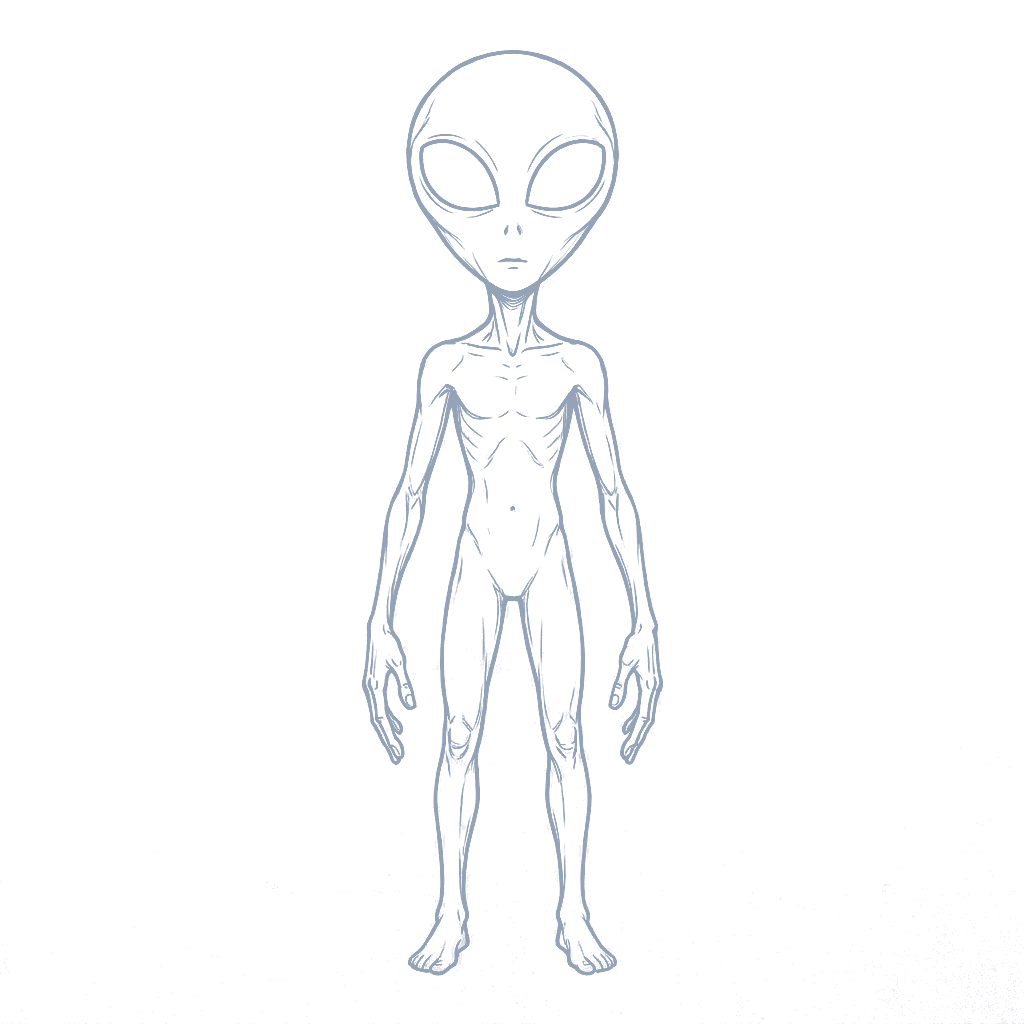
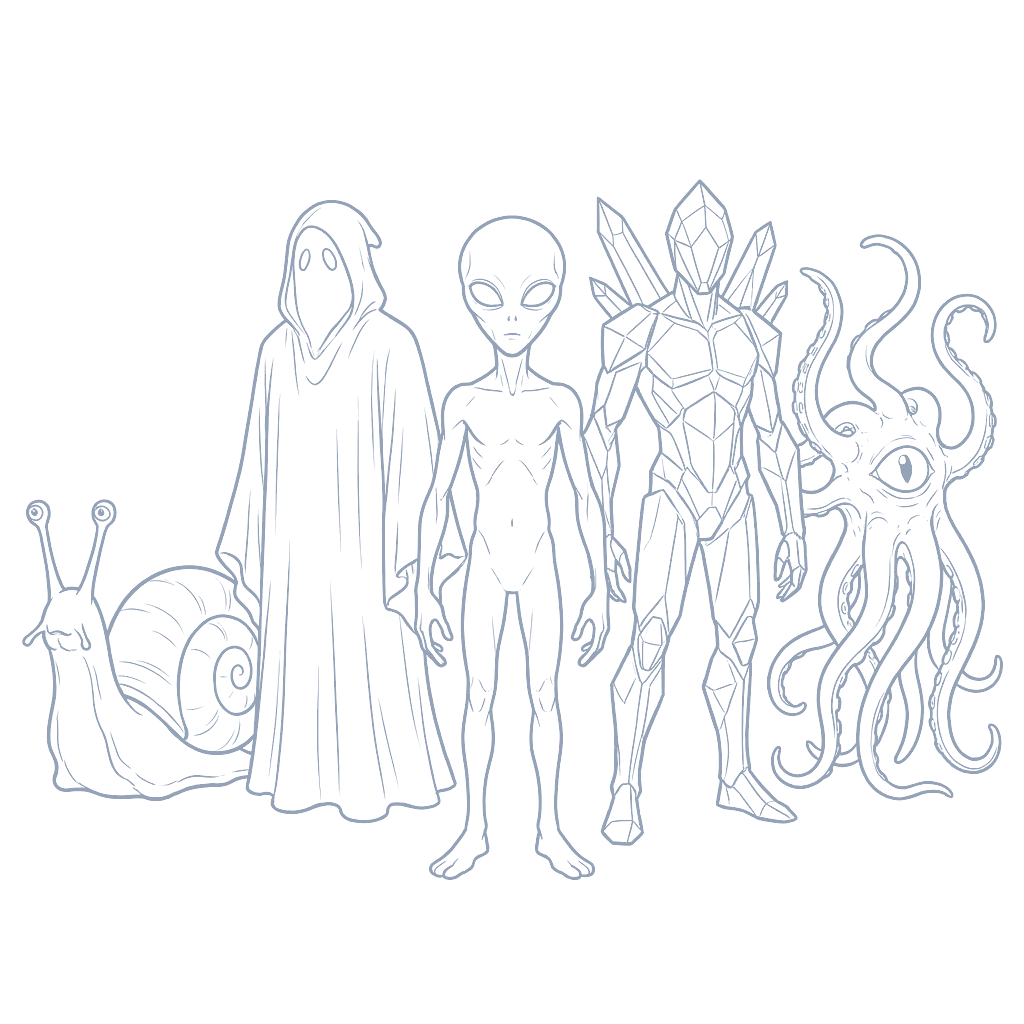
feat(species): expand alien sketch with outline lineup (#41)
* feat(species): expand alien sketch with outline lineup

Replace the single grey alien with five outline-only creatures (snail, ghost, grey, crystal, tentacle) matching the other species line-art style.

* docs: note alien sketch lineup and skip composition gate

Record the user-facing alien outline asset update and document a single-hop SKIPPED composition proof for the asset-only PR.

* feat(character-editor): polish Spezies chrome and archetype cards

Move identity fields into the preview card, rename Info→Spezies, place ruleset next to Vorschau, collapse archetype core abilities, and shorten archetype card height.

* docs(qa): refresh composition-gate notes for editor chrome polish

---------

diff --git a/src/components/CharacterEditor.tsx b/src/components/CharacterEditor.tsx
@@ -57,7 +57,7 @@ import {
 } from '../modules/rulesets/characterCreation';
 import { Badge } from './ui/badge';
 import { Button } from './ui/button';
-import { Card, CardAction, CardContent, CardHeader, CardTitle } from './ui/card';
+import { Card, CardContent, CardHeader } from './ui/card';
 import { Input } from './ui/input';
 import { Label } from './ui/label';
 import { Select, SelectContent, SelectItem, SelectTrigger, SelectValue } from './ui/select';
@@ -340,13 +340,74 @@ export function CharacterEditor() {
     <div className="h-full w-full overflow-y-auto">
       <div className="mx-auto max-w-7xl space-y-4 p-4 md:space-y-6 md:p-8">
         <div className="flex flex-col gap-3 md:flex-row md:items-center md:justify-between">
-          <div><div className="flex flex-wrap items-center gap-2"><h1 className="text-xl md:text-2xl">Charakter Editor</h1><Badge>{rulesetLabel}</Badge><Badge variant="outline">Stufe {characterLevel}</Badge></div><p className="mt-1 text-sm text-muted-foreground">Der Editor führt dich durch die Core-Regeln und berechnet regelrelevante Werte automatisch.</p></div>
-          <div className="flex gap-2"><Button variant="outline" onClick={() => trackActivity('Character Editor: Vorschau fokussiert')}><Eye className="mr-2 h-4 w-4" />Vorschau</Button><Button onClick={handleSaveCharacter} disabled={saving || uploading}><Save className="mr-2 h-4 w-4" />{saving ? 'Speichert...' : 'Speichern'}</Button></div>
+          <div><div className="flex flex-wrap items-center gap-2"><h1 className="text-xl md:text-2xl">Charakter Editor</h1><Badge>{rulesetLabel}</Badge><Badge variant="outline">Stufe {characterLevel}</Badge></div></div>
+          <div className="flex flex-wrap items-center gap-2">
+            <Select value={ruleset} onValueChange={handleRulesetChange}>
+              <SelectTrigger id="ruleset" size="sm" className="w-[10.5rem] sm:w-52" aria-label="Regelset">
+                <SelectValue />
+              </SelectTrigger>
+              <SelectContent>
+                {characterRulesetOptions.map((option) => (
+                  <SelectItem key={option.value} value={option.value}>{option.label}</SelectItem>
+                ))}
+              </SelectContent>
+            </Select>
+            <Button variant="outline" onClick={() => trackActivity('Character Editor: Vorschau fokussiert')}>
+              <Eye className="mr-2 h-4 w-4" />Vorschau
+            </Button>
+            <Button onClick={handleSaveCharacter} disabled={saving || uploading}>
+              <Save className="mr-2 h-4 w-4" />{saving ? 'Speichert...' : 'Speichern'}
+            </Button>
+          </div>
         </div>
 
         <div className="grid grid-cols-1 gap-4 md:gap-6 lg:grid-cols-3">
           <Card className="lg:sticky lg:top-4 lg:col-span-1 lg:self-start">
-            <CardHeader className="pb-3"><div className="flex items-start justify-between gap-3"><div className="min-w-0"><CardTitle className="truncate text-base md:text-lg" title={characterName || 'Unbenannt'}>{characterName || 'Unbenannt'}</CardTitle><p className="mt-1 text-xs text-muted-foreground">Stufe {characterLevel} · {rulesetLabel}</p></div><Badge variant="outline">Drive 3 / 5</Badge></div></CardHeader>
+            <CardHeader className="space-y-3 pb-3">
+              <div className="flex items-start justify-between gap-2">
+                <p className="text-xs text-muted-foreground">{rulesetLabel}</p>
+                <Badge variant="outline">Drive 3 / 5</Badge>
+              </div>
+              <div className="space-y-3">
+                <div className="space-y-1.5">
+                  <Label htmlFor="name">Name</Label>
+                  <Input
+                    id="name"
+                    placeholder="Charaktername"
+                    value={characterName}
+                    onChange={(event) => setCharacterName(event.target.value)}
+                  />
+                </div>
+                <div className="flex gap-2">
+                  <div className="min-w-0 flex-1 space-y-1.5">
+                    <Label htmlFor="gender-reading">Geschlecht</Label>
+                    <GenderReadingSelect
+                      id="gender-reading"
+                      value={genderReading}
+                      onValueChange={setGenderReading}
+                      className="w-full"
+                      invalid={validationAttempted && !genderReadingComplete}
+                    />
+                  </div>
+                  <div className="w-[4.5rem] shrink-0 space-y-1.5 sm:w-20">
+                    <Label htmlFor="level">Stufe</Label>
+                    <Select value={String(characterLevel)} onValueChange={(value) => setCharacterLevel(Number.parseInt(value, 10))}>
+                      <SelectTrigger id="level" className="w-full"><SelectValue /></SelectTrigger>
+                      <SelectContent>
+                        {Array.from({ length: 20 }, (_, index) => index + 1).map((level) => (
+                          <SelectItem key={level} value={String(level)}>{level}</SelectItem>
+                        ))}
+                      </SelectContent>
+                    </Select>
+                  </div>
+                </div>
+                {validationAttempted && !genderReadingComplete && (
+                  <p className="text-xs text-destructive">
+                    Bitte wähle eine Lesart: männlich, weiblich oder divers.
+                  </p>
+                )}
+              </div>
+            </CardHeader>
             <CardContent className="space-y-4">
               <div className="aspect-[4/5] overflow-hidden rounded-lg border border-border bg-[#0B1220] shadow-inner"><AvatarCanvas avatar={currentAvatar} canvasRef={avatarCanvasRef} /></div>
               <p className="text-sm text-muted-foreground">{previewSubtitle || 'Wähle Archetyp und Essenz'}</p>
@@ -366,28 +427,10 @@ export function CharacterEditor() {
           </Card>
 
           <Card className="lg:col-span-2">
-            <CardHeader className="pb-3">
-              <CardTitle className="text-base md:text-lg">Charakter erstellen</CardTitle>
-              <CardAction>
-                <div className="space-y-1.5">
-                  <Label htmlFor="ruleset" className="text-xs text-muted-foreground">Regelset</Label>
-                  <Select value={ruleset} onValueChange={handleRulesetChange}>
-                    <SelectTrigger id="ruleset" className="w-[10.5rem] sm:w-52" aria-label="Regelset">
-                      <SelectValue />
-                    </SelectTrigger>
-                    <SelectContent>
-                      {characterRulesetOptions.map((option) => (
-                        <SelectItem key={option.value} value={option.value}>{option.label}</SelectItem>
-                      ))}
-                    </SelectContent>
-                  </Select>
-                </div>
-              </CardAction>
-            </CardHeader>
-            <CardContent>
+            <CardContent className="pt-6">
               <Tabs value={activeTab} onValueChange={handleTabChange}>
                 <TabsList className="grid h-auto w-full grid-cols-2 gap-1 sm:grid-cols-3 xl:grid-cols-6">
-                  <TabsTrigger value="info" className="px-1 py-2 text-xs md:px-2 md:text-sm">Info</TabsTrigger>
+                  <TabsTrigger value="info" className="px-1 py-2 text-xs md:px-2 md:text-sm">Spezies</TabsTrigger>
                   <TabsTrigger value="background" className="px-1 py-2 text-xs md:px-2 md:text-sm">Hintergrund</TabsTrigger>
                   <TabsTrigger value="values" className="px-1 py-2 text-xs md:px-2 md:text-sm">Parameter</TabsTrigger>
                   <TabsTrigger value="appearance" className="px-1 py-2 text-xs md:px-2 md:text-sm">Look</TabsTrigger>
@@ -396,34 +439,6 @@ export function CharacterEditor() {
                 </TabsList>
 
                 <TabsContent value="info" className="space-y-6">
-                  <div className="flex gap-3 sm:gap-4">
-                    <div className="min-w-0 flex-1 space-y-2">
-                      <Label htmlFor="name">Name</Label>
-                      <Input id="name" placeholder="Charaktername" value={characterName} onChange={(event) => setCharacterName(event.target.value)} />
-                    </div>
-                    <div className="w-[7.25rem] shrink-0 space-y-2 sm:w-36">
-                      <Label htmlFor="gender-reading">Geschlecht</Label>
-                      <GenderReadingSelect
-                        id="gender-reading"
-                        value={genderReading}
-                        onValueChange={setGenderReading}
-                        className="w-full"
-                        invalid={validationAttempted && !genderReadingComplete}
-                      />
-                    </div>
-                    <div className="w-[4.5rem] shrink-0 space-y-2 sm:w-20">
-                      <Label htmlFor="level">Stufe</Label>
-                      <Select value={String(characterLevel)} onValueChange={(value) => setCharacterLevel(Number.parseInt(value, 10))}>
-                        <SelectTrigger id="level" className="w-full"><SelectValue /></SelectTrigger>
-                        <SelectContent>{Array.from({ length: 20 }, (_, index) => index + 1).map((level) => <SelectItem key={level} value={String(level)}>{level}</SelectItem>)}</SelectContent>
-                      </Select>
-                    </div>
-                  </div>
-                  {validationAttempted && !genderReadingComplete && (
-                    <div className="rounded-lg border border-destructive/40 bg-destructive/5 px-4 py-3 text-sm text-destructive">
-                      Bitte wähle eine Lesart: männlich gelesen, weiblich gelesen oder divers.
-                    </div>
-                  )}
                   <div className="space-y-2">
                     <Label id="species-label">Spezies</Label>
                     <SpeciesCarousel selectedRace={characterRace} onSelect={applyRacePreset} labelledBy="species-label" />
@@ -505,7 +520,7 @@ export function CharacterEditor() {
                 </TabsContent>
 
                 <TabsContent value="appearance" className="space-y-6">
-                  <div className="rounded-lg border border-primary/30 bg-primary/5 p-4"><div className="flex items-start justify-between gap-3"><div><p className="font-medium">Look ist kosmetisch</p><p className="mt-1 text-sm text-muted-foreground">Körperbau, Gesicht, Haare und Kleidung verändern keine Charakterwerte. Spezies wählst du im Info-Tab, Talente unter Parameter → Talente.</p></div><Badge variant="outline">Keine Werte</Badge></div></div>
+                  <div className="rounded-lg border border-primary/30 bg-primary/5 p-4"><div className="flex items-start justify-between gap-3"><div><p className="font-medium">Look ist kosmetisch</p><p className="mt-1 text-sm text-muted-foreground">Körperbau, Gesicht, Haare und Kleidung verändern keine Charakterwerte. Spezies wählst du im Spezies-Tab, Talente unter Parameter → Talente.</p></div><Badge variant="outline">Keine Werte</Badge></div></div>
                   <div className="grid grid-cols-1 gap-6 md:grid-cols-2"><div className="space-y-2"><Label>Körperbau</Label><Slider aria-label="Körperbau" value={bodySize} onValueChange={setBodySize} min={0} max={100} step={1} /><div className="flex items-center justify-between text-xs text-muted-foreground"><span>Schmal</span><span>{bodySize[0]}</span><span>Massiv</span></div></div><div className="space-y-2"><Label>Größe</Label><Slider aria-label="Größe" value={height} onValueChange={setHeight} min={0} max={100} step={1} /><div className="flex items-center justify-between text-xs text-muted-foreground"><span>Klein</span><span>{height[0]}</span><span>Groß</span></div></div></div>
                   <div className="grid grid-cols-1 gap-4 md:grid-cols-2">
                     <div className="space-y-2"><Label htmlFor="headStyle">Gesicht</Label><Select value={headStyle} onValueChange={setHeadStyle}><SelectTrigger id="headStyle"><SelectValue /></SelectTrigger><SelectContent><SelectItem value="human-balanced">Ausgewogen</SelectItem><SelectItem value="elf-angular">Fein / kantig</SelectItem><SelectItem value="dwarf-broad">Breit</SelectItem><SelectItem value="halfling-soft">Weich</SelectItem><SelectItem value="orc-heavy">Massiv</SelectItem><SelectItem value="cyborg-angular">Synthetisch</SelectItem><SelectItem value="alien-oval">Oval</SelectItem><SelectItem value="neutral-soft">Neutral</SelectItem></SelectContent></Select></div>

diff --git a/src/modules/characters/components/ArchetypeCarousel.tsx b/src/modules/characters/components/ArchetypeCarousel.tsx
@@ -3,7 +3,7 @@
  * Location: src/modules/characters/components/ArchetypeCarousel.tsx
  */
 import { useEffect, useRef, useState } from 'react';
-import { ChevronLeft, ChevronRight } from 'lucide-react';
+import { ChevronDown, ChevronLeft, ChevronRight } from 'lucide-react';
 import { sagaDriveArchetypeOptions, type SagaDriveArchetypeKey } from '../../rulesets/characterCreation';
 import { ArchetypeIcon } from './ArchetypeIcon';
 import { RuleHelp } from './RuleHelp';
@@ -16,6 +16,11 @@ import {
   CarouselItem,
   type CarouselApi,
 } from '../../../components/ui/carousel';
+import {
+  Collapsible,
+  CollapsibleContent,
+  CollapsibleTrigger,
+} from '../../../components/ui/collapsible';
 
 interface ArchetypeCarouselProps {
   selectedArchetype?: SagaDriveArchetypeKey;
@@ -119,7 +124,7 @@ export function ArchetypeCarousel({ selectedArchetype, onSelect, labelledBy = 'a
                       aria-label={option.label}
                       aria-checked={isSelected && isCenter}
                       tabIndex={isCenter ? 0 : -1}
-                      className={`overflow-hidden transition-all duration-300 ${isCenter ? 'cursor-default border-primary/60 shadow-lg' : 'cursor-pointer'} ${isSelected && isCenter ? 'border-primary bg-primary/5' : ''}`}
+                      className={`overflow-hidden transition-all duration-300 gap-3 ${isCenter ? 'cursor-default border-primary/60 shadow-lg' : 'cursor-pointer'} ${isSelected && isCenter ? 'border-primary bg-primary/5' : ''}`}
                       onClick={() => handleCardClick(index)}
                       onKeyDown={(event) => {
                         if (!isCenter) return;
@@ -127,16 +132,16 @@ export function ArchetypeCarousel({ selectedArchetype, onSelect, labelledBy = 'a
                         if (event.key === 'ArrowRight') { event.preventDefault(); api?.scrollNext(); }
                       }}
                     >
-                      <div className="relative flex aspect-[4/5] items-center justify-center overflow-hidden bg-gradient-to-br from-primary/15 via-muted/50 to-accent/10">
-                        <div className={`flex h-20 w-20 items-center justify-center rounded-2xl md:h-24 md:w-24 ${isCenter ? 'bg-primary/20 text-primary' : 'bg-muted/70 text-muted-foreground'}`}>
-                          <ArchetypeIcon archetypeKey={option.value} className="h-10 w-10 md:h-12 md:w-12" />
+                      <div className="relative flex aspect-[8/7] items-center justify-center overflow-hidden bg-gradient-to-br from-primary/15 via-muted/50 to-accent/10">
+                        <div className={`flex h-16 w-16 items-center justify-center rounded-2xl md:h-20 md:w-20 ${isCenter ? 'bg-primary/20 text-primary' : 'bg-muted/70 text-muted-foreground'}`}>
+                          <ArchetypeIcon archetypeKey={option.value} className="h-8 w-8 md:h-10 md:w-10" />
                         </div>
                         <div className="absolute inset-0 bg-gradient-to-t from-background/80 via-transparent to-transparent" />
                         {isSelected && isCenter && (
                           <Badge className="absolute right-2 top-2 border-0 bg-primary text-primary-foreground shadow-sm">Gewählt</Badge>
                         )}
                       </div>
-                      <CardHeader className="space-y-2 p-3 md:p-4">
+                      <CardHeader className="space-y-1.5 p-3 md:p-3.5">
                         <div className="flex items-center gap-1">
                           <CardTitle className="text-sm md:text-base">{option.label}</CardTitle>
                           <span className="inline-flex" onPointerDown={(event) => event.stopPropagation()} onClick={(event) => event.stopPropagation()}>
@@ -148,16 +153,32 @@ export function ArchetypeCarousel({ selectedArchetype, onSelect, labelledBy = 'a
                         <p className="text-xs text-muted-foreground">{option.summary}</p>
                         {!isCenter && <p className="text-xs">Kernfähigkeit: {ability.name}</p>}
                         {isCenter && (
-                          <article className="rounded-lg border border-primary/30 bg-primary/5 p-3">
-                            <div className="flex flex-wrap items-center gap-1.5">
-                              <p className="text-sm font-semibold">{ability.name}</p>
-                              <Badge variant="outline">{option.label}</Badge>
-                              <Badge>Rang {ability.rank}</Badge>
-                              <Badge variant="secondary">{ability.actionType}</Badge>
-                            </div>
-                            <p className="mt-2 text-xs text-muted-foreground">{ability.description}</p>
-                            <p className="mt-2 text-xs leading-relaxed">{ability.effect}</p>
-                          </article>
+                          <div
+                            className="space-y-1.5"
+                            onPointerDown={(event) => event.stopPropagation()}
+                            onClick={(event) => event.stopPropagation()}
+                          >
+                            <p className="text-xs font-medium text-muted-foreground">
+                              {ability.actionType}-Skill
+                            </p>
+                            <Collapsible defaultOpen={false}>
+                              <CollapsibleTrigger className="group flex w-full items-center justify-between gap-2 rounded-lg border border-primary/30 bg-primary/5 px-3 py-2 text-left transition-colors hover:bg-primary/10">
+                                <span className="text-sm font-semibold">{ability.name}</span>
+                                <ChevronDown className="size-4 shrink-0 text-muted-foreground transition-transform group-data-[state=open]:rotate-180" />
+                              </CollapsibleTrigger>
+                              <CollapsibleContent>
+                                <article className="mt-1.5 space-y-2 rounded-lg border border-primary/30 bg-primary/5 p-3">
+                                  <div className="flex flex-wrap items-center gap-1.5">
+                                    <Badge variant="outline">{option.label}</Badge>
+                                    <Badge>Rang {ability.rank}</Badge>
+                                    <Badge variant="secondary">{ability.actionType}</Badge>
+                                  </div>
+                                  <p className="text-xs text-muted-foreground">{ability.description}</p>
+                                  <p className="text-xs leading-relaxed">{ability.effect}</p>
+                                </article>
+                              </CollapsibleContent>
+                            </Collapsible>
+                          </div>
                         )}
                       </CardHeader>
                     </Card>
@@ -170,10 +191,10 @@ export function ArchetypeCarousel({ selectedArchetype, onSelect, labelledBy = 'a
 
       {options.length > 1 && (
         <div className="archetype-carousel-nav-buttons">
-          <Button type="button" variant="outline" size="icon" className="archetype-carousel-nav-button left-0 top-[32%] h-10 w-10 rounded-full border-2 bg-background/95 shadow-xl backdrop-blur-sm md:left-2 md:h-11 md:w-11" onClick={() => api?.scrollPrev()} aria-label="Vorheriger Archetyp">
+          <Button type="button" variant="outline" size="icon" className="archetype-carousel-nav-button left-0 top-[28%] h-10 w-10 rounded-full border-2 bg-background/95 shadow-xl backdrop-blur-sm md:left-2 md:h-11 md:w-11" onClick={() => api?.scrollPrev()} aria-label="Vorheriger Archetyp">
             <ChevronLeft className="size-5" />
           </Button>
-          <Button type="button" variant="outline" size="icon" className="archetype-carousel-nav-button right-0 top-[32%] h-10 w-10 rounded-full border-2 bg-background/95 shadow-xl backdrop-blur-sm md:right-2 md:h-11 md:w-11" onClick={() => api?.scrollNext()} aria-label="Nächster Archetyp">
+          <Button type="button" variant="outline" size="icon" className="archetype-carousel-nav-button right-0 top-[28%] h-10 w-10 rounded-full border-2 bg-background/95 shadow-xl backdrop-blur-sm md:right-2 md:h-11 md:w-11" onClick={() => api?.scrollNext()} aria-label="Nächster Archetyp">
             <ChevronRight className="size-5" />
           </Button>
         </div>

diff --git a/e2e/character-editor.spec.ts b/e2e/character-editor.spec.ts
@@ -26,11 +26,11 @@ test('character editor exposes the SagaDrive Core creation flow', async ({ page 
   await expect(page.getByText('SagaDrive Core').first()).toBeVisible();
   await expect(page.getByRole('combobox', { name: /Regelset/i }).first()).toBeVisible();
 
-  for (const tab of ['Info', 'Hintergrund', 'Parameter', 'Look', 'Inventar', 'Notizen']) {
+  for (const tab of ['Spezies', 'Hintergrund', 'Parameter', 'Look', 'Inventar', 'Notizen']) {
     await expect(page.getByRole('tab', { name: new RegExp(`^${tab}$`, 'i') })).toBeVisible();
   }
 
-  await page.getByRole('tab', { name: /^Info$/i }).click();
+  await page.getByRole('tab', { name: /^Spezies$/i }).click();
   await expect(page.getByText('Spezies', { exact: true }).first()).toBeVisible();
   await expect(page.getByRole('radio', { name: /Mensch/i })).toBeVisible();
   await expect(page.getByRole('img', { name: /Skizze: Mensch/i })).toBeVisible();
@@ -86,7 +86,7 @@ test('character editor exposes the SagaDrive Core creation flow', async ({ page 
   await expect(page.getByRole('button', { name: /Speichern/i }).first()).toBeVisible();
   await page.screenshot({ path: path.join(EVIDENCE_DIR, '09-notes-save.png'), fullPage: true });
 
-  await page.getByRole('tab', { name: /Info/i }).click();
+  await page.getByRole('tab', { name: /Spezies/i }).click();
   await page.getByPlaceholder('Charaktername').first().fill('Validierungsprobe');
   await page.getByRole('button', { name: /Speichern/i }).first().click();
   await expect(page.locator('[data-sonner-toast]').filter({ hasText: /Hintergrundangaben|Fertigkeitspunkte|Attribute|Namen|gelesen/i }).first()).toBeVisible({ timeout: 10_000 });

diff --git a/.qa/runs/composition-gate-feat-alien-species-sketch.md b/.qa/runs/composition-gate-feat-alien-species-sketch.md
@@ -1,0 +1,29 @@
+# Composition Gate — feat-alien-species-sketch
+
+- HEAD_SHA: 5fe70b18d317d6dfc4df6d48184a381c99e9a998
+- BASE_SHA: 63cb036f95d9763d21985933cf1396abfff720cd
+- Date: 2026-08-27
+- Verdict: SKIPPED
+
+## Event
+User views/selects Alien Spezies in Character Editor carousel; sketch asset is presentational only.
+
+## Hop chain
+No persistence or service hop change. Static PNG under `src/assets/species/alien.png` is loaded by existing `getSpeciesSketchUrl` → carousel `<img>`. Selection still flows through existing `onSelect` → editor state → unchanged save path.
+
+## Simulations
+| Case | Intended | Composed | Result |
+|------|----------|----------|--------|
+| N/A | Asset swap only | No hop cardinality change | skip |
+
+## Flags
+| Tag | Severity | Hops | Why local review missed it | Fix |
+|-----|----------|------|----------------------------|-----|
+| — | — | — | no open flags | done |
+
+## Skip reason
+Single-hop presentational asset update (species sketch PNG only). No API, DB, worker, or auth path touched. Safe to skip multi-hop composition analysis.
+
+## Notes
+- Outline-only lineup: snail, ghost, grey (center), crystal, tentacle — same `#94A3B8` line-art style as other Spezies.
+- Follow-up UI chrome on same branch (Spezies tab rename, preview identity fields, ruleset toolbar, collapsible archetype ability, shorter archetype cards) remains presentational single-hop; no persistence path change.

diff --git a/README.md b/README.md
@@ -60,7 +60,7 @@ Output-Verzeichnis:
 
 Der aktuelle **Neuer-Charakter-Flow** konzentriert sich bewusst ausschließlich auf **SagaDrive Core**. Der Character Editor verwendet acht regelgeführte Bereiche:
 
-- `Info`
+- `Spezies`
 - `Hintergrund`
 - `Werte`
 - `Fertigkeiten`
@@ -150,6 +150,8 @@ Die Browser-Evidence und Playwright-Berichte werden im CI-Lauf als Artifact `cha
 
 ## Recent changes
 
+- **2026-08-27** — Character Editor Chrome: Tab „Spezies“, Name/Geschlecht/Stufe in Preview, Regelset neben Vorschau, Archetyp-Kernfähigkeit einklappbar, flachere Archetyp-Karten (`feat/alien-species-sketch`)
+- **2026-08-27** — Alien-Spezies-Skizze: Outline-Lineup mit fünf Gestalten (Schnecke, Geist, Grey, Kristall, Tentakel) (`feat/alien-species-sketch`)
 - **2026-08-27** — Spezies-Karussell: Wappen pro Spezies (Shimmer/Puls bei Auswahl), Colorway-Header, überarbeitete Skizzen und Skalierung Zwerg/Halbling (`feat/character-editor-ui-polish`)
 - **2026-08-26** — Character Editor UI: Parameter-Tab (Attribute/Talente/Archetyp/Essenz), Spezies- & Archetyp-Karussells, Pflichtfeld Geschlecht, Regelset-Dropdown, Skill-Icons, Terminologie Wesen→Spezies, collapsible Sidebar (`feat/character-editor-ui-polish`)
 - **2026-08-26** — SagaDrive Core Character Editor verifiziert (test-gate, composition-gate CLEAR, Playwright Evidence `01`–`12`) (`feat/sagadrive-character-editor-core`)
